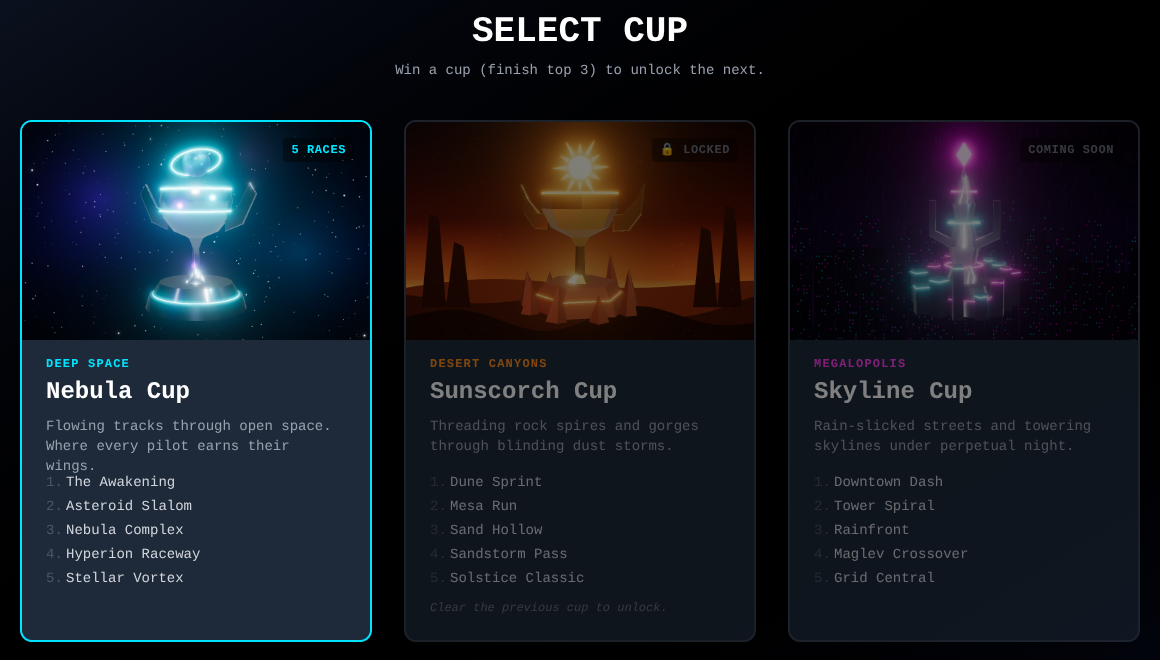
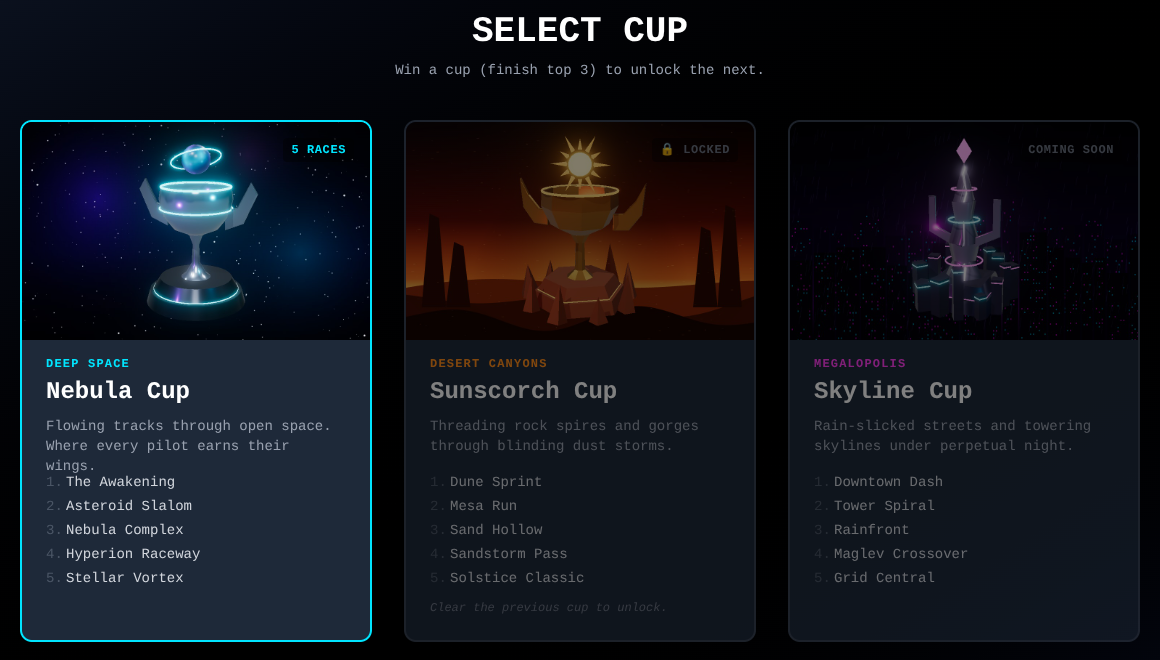
Give cup trophies proper 3D shading
Metal is now slightly below full metalness so a light-to-shadow gradient
shows across the body, the key light casts shadows onto the plinth, a rim
light picks out edges, and the camera looks down into the bowl so its
opening reads as an ellipse. Coloured fill lights and emissives are toned
down so they no longer wash the chrome out to flat white.

Claude-Session: https://claude.ai/code/session_01TZJVudBJMZ6xfy6YUNRPQe

Changed region(s): [[0.0931, 0.1818, 0.2483, 0.5152], [0.4345, 0.1818, 0.5586, 0.4848], [0.7759, 0.1818, 0.9, 0.4848]]

diff --git a/scripts/cup-trophies.ts b/scripts/cup-trophies.ts
@@ -33,8 +33,10 @@ function mulberry32(seed: number) {
 
 // ---------------------------------------------------------------- helpers
 
-const metal = (color: number, roughness = 0.2, extra: THREE.MeshPhysicalMaterialParameters = {}) =>
-    new THREE.MeshPhysicalMaterial({ color, metalness: 1, roughness, clearcoat: 0.6, clearcoatRoughness: 0.1, ...extra });
+// Slightly below full metalness so a diffuse light-to-shadow gradient shows across
+// the body; pure mirror chrome under a soft env map reads as a flat cut-out.
+const metal = (color: number, roughness = 0.3, extra: THREE.MeshPhysicalMaterialParameters = {}) =>
+    new THREE.MeshPhysicalMaterial({ color, metalness: 0.85, roughness, clearcoat: 0.5, clearcoatRoughness: 0.15, ...extra });
 
 const glow = (color: number, intensity = 3) =>
     new THREE.MeshStandardMaterial({ color: 0x000000, emissive: color, emissiveIntensity: intensity });
@@ -147,7 +149,7 @@ const NEBULA: TrophySpec = {
     build: (root, scene) => {
         const chrome = metal(0x9fb2c8, 0.1);
         const gun = metal(0x2a3140, 0.35);
-        const cyan = glow(0x00e5ff, 4);
+        const cyan = glow(0x00e5ff, 2.4);
         plinth(root, gun, cyan);
 
         // Slim stem flaring into a tall tulip bowl.
@@ -181,9 +183,9 @@ const NEBULA: TrophySpec = {
         orbit.rotation.set(Math.PI / 2 - 0.35, 0.3, 0);
         root.add(orbit);
 
-        const l1 = new THREE.PointLight(0x00e5ff, 12, 10);
+        const l1 = new THREE.PointLight(0x00e5ff, 6, 10);
         l1.position.set(2, 2.5, 2);
-        const l2 = new THREE.PointLight(0xa050ff, 12, 10);
+        const l2 = new THREE.PointLight(0xa050ff, 6, 10);
         l2.position.set(-2, 1.5, 2);
         scene.add(l1, l2);
     },
@@ -226,7 +228,7 @@ const SUNSCORCH: TrophySpec = {
     build: (root, scene) => {
         const gold = metal(0xf2a93b, 0.22, { flatShading: true });
         const sandstone = new THREE.MeshStandardMaterial({ color: 0x7a3a14, roughness: 0.9, flatShading: true });
-        const orange = glow(0xff8c1a, 4);
+        const orange = glow(0xff8c1a, 2.4);
 
         // Hexagonal sandstone plinth ringed by rock spires.
         plinth(root, sandstone, orange, 6);
@@ -255,8 +257,8 @@ const SUNSCORCH: TrophySpec = {
         // Sun disk crown: glowing core with radiating spikes.
         const sun = new THREE.Group();
         sun.position.y = 2.95;
-        sun.add(new THREE.Mesh(new THREE.SphereGeometry(0.24, 48, 24), glow(0xffb340, 5)));
-        const spikeMat = glow(0xff7a10, 3.5);
+        sun.add(new THREE.Mesh(new THREE.SphereGeometry(0.24, 48, 24), glow(0xffb340, 3.0)));
+        const spikeMat = glow(0xff7a10, 2.1);
         for (let i = 0; i < 12; i++) {
             const a = (i / 12) * Math.PI * 2;
             const len = i % 2 ? 0.22 : 0.36;
@@ -267,9 +269,9 @@ const SUNSCORCH: TrophySpec = {
         }
         root.add(sun);
 
-        const l1 = new THREE.PointLight(0xffa040, 18, 10);
+        const l1 = new THREE.PointLight(0xffa040, 9, 10);
         l1.position.set(1.5, 3.5, 2.5);
-        const l2 = new THREE.PointLight(0xff5010, 10, 10);
+        const l2 = new THREE.PointLight(0xff5010, 5, 10);
         l2.position.set(-2, 1, 2);
         scene.add(l1, l2);
     },
@@ -314,9 +316,9 @@ const SKYLINE: TrophySpec = {
     },
     build: (root, scene) => {
         const chrome = metal(0xb0a4c8, 0.1);
-        const glass = new THREE.MeshPhysicalMaterial({ color: 0x0c0818, metalness: 0.3, roughness: 0.35, clearcoat: 0.4 });
-        const magenta = glow(0xff3df0, 4);
-        const cyan = glow(0x00e5ff, 3);
+        const glass = new THREE.MeshPhysicalMaterial({ color: 0x2a2240, metalness: 0.4, roughness: 0.3, clearcoat: 0.6 });
+        const magenta = glow(0xff3df0, 2.4);
+        const cyan = glow(0x00e5ff, 1.8);
 
         // Square-cut plinth, then a mini city of glass towers around the base.
         plinth(root, glass, magenta, 4);
@@ -355,14 +357,14 @@ const SKYLINE: TrophySpec = {
             return bar;
         }, 0.75, 1.88, root);
 
-        const top = new THREE.Mesh(new THREE.OctahedronGeometry(0.17), glow(0xff3df0, 5));
+        const top = new THREE.Mesh(new THREE.OctahedronGeometry(0.17), glow(0xff3df0, 3.0));
         top.position.y = 3.22;
         top.scale.y = 1.5;
         root.add(top);
 
-        const l1 = new THREE.PointLight(0xff3df0, 16, 10);
+        const l1 = new THREE.PointLight(0xff3df0, 8, 10);
         l1.position.set(-2, 2.2, 2);
-        const l2 = new THREE.PointLight(0x00e5ff, 12, 10);
+        const l2 = new THREE.PointLight(0x00e5ff, 6, 10);
         l2.position.set(2, 1.4, 2);
         scene.add(l1, l2);
     },
@@ -414,7 +416,7 @@ const CRYO: TrophySpec = {
             color: 0xbff4ff, metalness: 0, roughness: 0.05, transmission: 0.85, thickness: 0.6, ior: 1.31,
             emissive: 0x2a8cff, emissiveIntensity: 0.25, flatShading: true,
         });
-        const iceBlue = glow(0x9fe8ff, 3.5);
+        const iceBlue = glow(0x9fe8ff, 2.1);
 
         plinth(root, silver, iceBlue);
         // Frost chunks scattered round the base.
@@ -456,9 +458,9 @@ const CRYO: TrophySpec = {
         core.position.y = 2.2;
         root.add(core);
 
-        const l1 = new THREE.PointLight(0x3dffb0, 10, 10);
+        const l1 = new THREE.PointLight(0x3dffb0, 5, 10);
         l1.position.set(-2, 3, 1.5);
-        const l2 = new THREE.PointLight(0x9fe8ff, 14, 10);
+        const l2 = new THREE.PointLight(0x9fe8ff, 7, 10);
         l2.position.set(2, 1.5, 2.5);
         scene.add(l1, l2);
     },
@@ -501,8 +503,8 @@ const INFERNO: TrophySpec = {
     build: (root, scene) => {
         const obsidian = new THREE.MeshPhysicalMaterial({ color: 0x0a0809, metalness: 0.1, roughness: 0.3, clearcoat: 0.6, flatShading: true });
         const iron = metal(0x3a2a2a, 0.35, { flatShading: true });
-        const lava = glow(0xff4a10, 4);
-        const red = glow(0xff2a4d, 3);
+        const lava = glow(0xff4a10, 2.4);
+        const red = glow(0xff2a4d, 1.8);
 
         // Obsidian plinth on a bed of volcanic rock.
         plinth(root, obsidian, lava, 7);
@@ -529,7 +531,7 @@ const INFERNO: TrophySpec = {
             crack.rotation.z = (rand() - 0.5) * 0.4;
             root.add(crack);
         }
-        const magma = new THREE.Mesh(new THREE.CircleGeometry(0.76, 48), glow(0xff6a10, 5));
+        const magma = new THREE.Mesh(new THREE.CircleGeometry(0.76, 48), glow(0xff6a10, 3.0));
         magma.rotation.x = -Math.PI / 2;
         magma.position.y = 2.15;
         root.add(magma);
@@ -550,16 +552,16 @@ const INFERNO: TrophySpec = {
             root.add(g);
         }
         const centre = new THREE.Group();
-        centre.add(flame(1.0, glow(0xffa030, 5)));
+        centre.add(flame(1.0, glow(0xffa030, 3.0)));
         centre.position.y = 2.15;
         root.add(centre);
 
         // Horn-like handles.
         pair(() => fin([[0, 0], [0.3, 0.1], [0.5, 0.5], [0.55, 1.05], [0.38, 0.6], [0.1, 0.3], [0, 0.28]], 0.06, iron), 0.78, 1.6, root);
 
-        const l1 = new THREE.PointLight(0xff5020, 18, 10);
+        const l1 = new THREE.PointLight(0xff5020, 9, 10);
         l1.position.set(0, 3.2, 1.5);
-        const l2 = new THREE.PointLight(0xff2a4d, 10, 10);
+        const l2 = new THREE.PointLight(0xff2a4d, 5, 10);
         l2.position.set(-2, 1, 2);
         scene.add(l1, l2);
     },
@@ -574,32 +576,53 @@ renderer.setPixelRatio(1);
 renderer.setSize(WIDTH, HEIGHT);
 renderer.toneMapping = THREE.ACESFilmicToneMapping;
 renderer.toneMappingExposure = 1.0;
+renderer.shadowMap.enabled = true;
+renderer.shadowMap.type = THREE.PCFSoftShadowMap;
 const pmrem = new THREE.PMREMGenerator(renderer);
 const envMap = pmrem.fromScene(new RoomEnvironment(), 0.04).texture;
 
 function renderTrophy(spec: TrophySpec): string {
     const scene = new THREE.Scene();
     scene.environment = envMap;
-    scene.environmentIntensity = 0.4;
+    scene.environmentIntensity = 0.25;
     scene.background = canvasTexture(WIDTH, HEIGHT, (ctx) => spec.background(ctx, WIDTH, HEIGHT, mulberry32(42)));
 
-    const key = new THREE.DirectionalLight(0xffffff, 0.9);
-    key.position.set(3, 5, 4);
-    scene.add(key, new THREE.AmbientLight(0xffffff, 0.15));
+    // Key from upper-left, rim from behind-right, so every surface gets a lit
+    // side, a shadow side and a highlight edge. Key casts shadows onto the plinth.
+    const key = new THREE.DirectionalLight(0xffffff, 1.8);
+    key.position.set(-3.5, 6, 4);
+    key.castShadow = true;
+    key.shadow.mapSize.set(2048, 2048);
+    key.shadow.camera.left = key.shadow.camera.bottom = -2.5;
+    key.shadow.camera.right = key.shadow.camera.top = 2.5;
+    key.shadow.camera.near = 1;
+    key.shadow.camera.far = 20;
+    key.shadow.bias = -0.0005;
+    const rim = new THREE.DirectionalLight(0xffffff, 1.2);
+    rim.position.set(3, 4, -5);
+    scene.add(key, rim, new THREE.AmbientLight(0xffffff, 0.08));
 
     const root = new THREE.Group();
     spec.build(root, scene);
     // Slight turn so the trophy reads as 3D rather than a flat elevation.
     root.rotation.y = -0.35;
+    root.traverse((o) => {
+        if (o instanceof THREE.Mesh) {
+            o.castShadow = true;
+            o.receiveShadow = true;
+        }
+    });
     scene.add(root);
 
     const camera = new THREE.PerspectiveCamera(30, WIDTH / HEIGHT, 0.1, 100);
-    camera.position.set(0, 2.3, 8.6);
-    camera.lookAt(0, 1.62, 0);
+    // Looking slightly down into the bowl shows its opening as an ellipse,
+    // the strongest cue that the cup has depth.
+    camera.position.set(0, 3.6, 8.4);
+    camera.lookAt(0, 1.55, 0);
 
     const composer = new EffectComposer(renderer);
     composer.addPass(new RenderPass(scene, camera));
-    composer.addPass(new UnrealBloomPass(new THREE.Vector2(WIDTH, HEIGHT), 0.55, 0.5, 0.9));
+    composer.addPass(new UnrealBloomPass(new THREE.Vector2(WIDTH, HEIGHT), 0.35, 0.4, 1.0));
     composer.addPass(new OutputPass());
     composer.render();
     const url = renderer.domElement.toDataURL('image/jpeg', 0.9);
